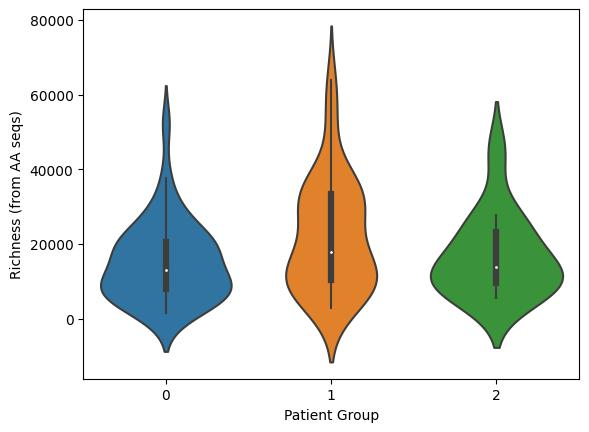
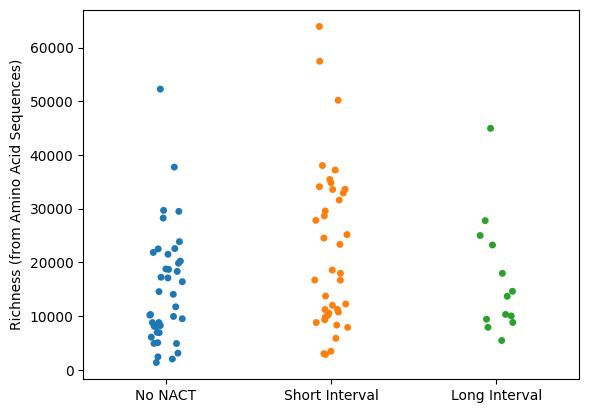
BeBetter figure style, small additions to README

diff --git a/main.py b/main.py
@@ -1,71 +1,75 @@
 import os
+import pandas as pd
 
 from src.data.parse_overview import parse_sample_overview
 from src.analysis.calc_diversity import quantify_patients
 from src.util.helpers import get_mean, shannon_idx, shannon_idx_vdj, \
        get_richness, get_richness_vdj
-from src.visualization.plotting import violin
+from src.visualization.plotting import violin, strip_plot
 
 def main():
-    load_precalculated = False
+    load_precalculated = True
     
+    saved_df_path = os.path.join('data', 'processed', 'precalculated.tsv')
     if not load_precalculated:
-       # Parse overview tsv file
+        # Parse overview tsv file
        samp_overview_path = './data/analysis/SampleOverview.tsv'
        ov_df = parse_sample_overview(samp_overview_path)
 
        # Calculate from patient sequencing data
        metric_fns_cols = [(shannon_idx, 'aminoAcid', 'aa_shannon'),
-                            (get_mean, 'cdr3Length', 'mean_cdr3'),
-                            (shannon_idx, 'vGeneName', 'shannon_vgene'),
-                            (shannon_idx, 'jGeneName', 'shannon_jgene'),
-                            (shannon_idx_vdj, 'vdjGenes', 'shannon_vdjgene'),
-                            (get_richness, 'aminoAcid', 'aa_richness'),
-                            (get_richness, 'vGeneName', 'richness_vgene'),
-                            (get_richness, 'jGeneName', 'richness_jgene'),
-                            (get_richness_vdj, 'vdjGenes', 'richness_vdjgene'),]
+                          (get_mean, 'cdr3Length', 'mean_cdr3'),
+                          (shannon_idx, 'vGeneName', 'shannon_vgene'),
+                          (shannon_idx, 'jGeneName', 'shannon_jgene'),
+                          (shannon_idx_vdj, 'vdjGenes', 'shannon_vdjgene'),
+                          (get_richness, 'aminoAcid', 'aa_richness'),
+                          (get_richness, 'vGeneName', 'richness_vgene'),
+                          (get_richness, 'jGeneName', 'richness_jgene'),
+                          (get_richness_vdj, 'vdjGenes', 'richness_vdjgene')]
        for metric_tup in metric_fns_cols:
               ov_df = quantify_patients(ov_df, 
                                    metric_tup[0], metric_tup[1], metric_tup[2])
-       ov_df.to_csv(os.path.join('data', 'processed', 'precalculated.tsv'), 
-                    sep="\t")
-    
-    ## Plotting
-    xlabel = 'Patient Group'
-    violin(ov_df, 'interval_group_num', 'fraction_productive', 
-           xlabel, 'Fraction Productive', 'fraction_productive_violin.jpg')
-    violin(ov_df, 'interval_group_num', 'rel_prod_rearr', 
-           xlabel, 'Relative Productive Rearrangements', 'rel_prod_rearr_violin.jpg')
-    violin(ov_df, 'interval_group_num', 'rel_total_rearr', 
-           xlabel, 'Relative Total Rearrangements', 'rel_total_rearr_violin.jpg')
-    violin(ov_df, 'interval_group_num', 'frac_prod_rearr', 
-           xlabel, 'Fraction of Productive Rearrangements', 'frac_prod_rearr_violin.jpg')
-    violin(ov_df, 'interval_group_num', 'productive_simpson_clonality', 
-           xlabel, 'Productive Simpson Clonality', 'prod_simps_clon_rearr_violin.jpg')
-    violin(ov_df, 'interval_group_num', 'max_productive_frequency', 
-           xlabel, 'Max Productive Frequency', 'max_prod_freq_violin.jpg')
-    
-    violin(ov_df, 'interval_group_num', 'aa_shannon', 
-           xlabel, 'Shannon Index (from AA seqs)', 'aa_shannon_violin.jpg')
-    violin(ov_df, 'interval_group_num', 'mean_cdr3', 
-           xlabel, 'Mean CDR3 Length', 'mean_cdr3_violin.jpg')
-    violin(ov_df, 'interval_group_num', 'shannon_vgene', 
-           xlabel, 'Shannon Index (TCR V-gene)', 'shannon_vgene_violin.jpg')
-    violin(ov_df, 'interval_group_num', 'shannon_jgene', 
-           xlabel, 'Shannon Index (TCR J-gene)', 'shannon_jgene_violin.jpg')
-    violin(ov_df, 'interval_group_num', 'shannon_vdjgene', 
-           xlabel, 'Shannon Index (from V, D, J seqs)', 'shannon_vdjgene_violin.jpg')
-    
-    violin(ov_df, 'interval_group_num', 'aa_richness', 
-           xlabel, 'Richness (from AA seqs)', 'rich_shannon_violin.jpg')
-    violin(ov_df, 'interval_group_num', 'richness_vgene', 
-           xlabel, 'Richness (TCR V-gene)', 'rich_vgene_violin.jpg')
-    violin(ov_df, 'interval_group_num', 'richness_jgene', 
-           xlabel, 'Richness (TCR J-gene)', 'rich_jgene_violin.jpg')
-    violin(ov_df, 'interval_group_num', 'richness_vdjgene', 
-           xlabel, 'Richness (from V, D, J seqs)', 'rich_vdjgene_violin.jpg')
-    
+       ov_df.to_csv(saved_df_path, sep="\t")
+    else:
+       ov_df = pd.read_csv(saved_df_path, sep="\t")
 
+    ## Plotting
+    xslice = 'group_label'
+    strip_plot(ov_df, xslice, 'fraction_productive', 
+           'Fraction Productive', 'fraction_productive_violin.jpg')
+    strip_plot(ov_df, xslice, 'rel_prod_rearr', 
+           'Relative Productive Rearrangements', 'rel_prod_rearr_violin.jpg')
+    strip_plot(ov_df, xslice, 'rel_total_rearr', 
+           'Relative Total Rearrangements', 'rel_total_rearr_violin.jpg')
+    strip_plot(ov_df, xslice, 'frac_prod_rearr', 
+           'Fraction of Productive Rearrangements', 'frac_prod_rearr_violin.jpg')
+    strip_plot(ov_df, xslice, 'productive_simpson_clonality', 
+           'Productive Simpson Clonality', 'prod_simps_clon_rearr_violin.jpg')
+    strip_plot(ov_df, xslice, 'max_productive_frequency', 
+           'Max Productive Frequency', 'max_prod_freq_violin.jpg')
+    
+    strip_plot(ov_df, xslice, 'aa_shannon', 
+           'Shannon Index (from Amino Acid Sequences)', 'aa_shannon_violin.jpg')
+    strip_plot(ov_df, xslice, 'mean_cdr3', 
+           'Mean CDR3 Length', 'mean_cdr3_violin.jpg')
+    strip_plot(ov_df, xslice, 'shannon_vgene', 
+           'Shannon Index (TCR V-gene)', 'shannon_vgene_violin.jpg')
+    strip_plot(ov_df, xslice, 'shannon_jgene', 
+           'Shannon Index (TCR J-gene)', 'shannon_jgene_violin.jpg')
+    strip_plot(ov_df, xslice, 'shannon_vdjgene', 
+           'Shannon Index (Unique V, D, J-gene Combinations)', 
+           'shannon_vdjgene_violin.jpg')
+    
+    strip_plot(ov_df, xslice, 'aa_richness', 
+           'Richness (from Amino Acid Sequences)', 'rich_shannon_violin.jpg')
+    strip_plot(ov_df, xslice, 'richness_vgene', 
+           'Richness (TCR V-gene)', 'rich_vgene_violin.jpg')
+    strip_plot(ov_df, xslice, 'richness_jgene', 
+           'Richness (TCR J-gene)', 'rich_jgene_violin.jpg')
+    strip_plot(ov_df, xslice, 'richness_vdjgene', 
+           'Richness (Unique V, D, J-gene Combinations)', 
+           'rich_vdjgene_violin.jpg')
+    
 
 if __name__ == "__main__":
     main()

diff --git a/src/analysis/calc_diversity.py b/src/analysis/calc_diversity.py
@@ -6,7 +6,7 @@ def quantify_patients(ov_df, metric_fn, metric_col, ov_new_col):
     print(f'{metric_col = }')
     new_col_arr = np.zeros(len(ov_df))
     for i, samp in enumerate(ov_df['sample_name']):
-        pt_path = os.path.join('data', 'patient_data', samp + '.tsv')
+        pt_path = os.path.join('data', 'raw', 'ChemoProjTCRs', samp + '.tsv')
         patient_df = pd.read_csv(pt_path, sep='\t', low_memory=False)
         new_col_arr[i] = metric_fn(patient_df, metric_col)
     ov_df[ov_new_col] = new_col_arr

diff --git a/src/visualization/plotting.py b/src/visualization/plotting.py
@@ -10,3 +10,14 @@ def violin(ov_df, xslice, yslice, xlabel, ylabel, filename, show=False):
     plt.savefig(os.path.join('fig', 'main_fig', filename), bbox_inches='tight')
     
     if show: plt.show()
+
+
+def strip_plot(ov_df, xslice, yslice, ylabel, filename, show=False):
+    plt.figure()
+    sns.stripplot(data=ov_df, x=xslice, y=yslice)
+    plt.xlabel('')
+    plt.ylabel(ylabel)
+
+    plt.savefig(os.path.join('fig', 'main_fig', filename), bbox_inches='tight')
+    
+    if show: plt.show()

diff --git a/README.md b/README.md
@@ -8,6 +8,16 @@ This repo was created by Dennis Gong and Thomas Usherwood as part of the Biologi
 
 The data was generated using the [immunoSEQ hsTCRB Kit](https://www.immunoseq.com/) with samples obtained by Høye et al., with an abstract published in Cancer Research, accessible [here](https://aacrjournals.org/cancerres/article/82/12_Supplement/1346/699749/Abstract-1346-T-cell-receptor-repertoire). The dataset contains 92 samples, with 35 patients receiving neoadjuvant chemotherapy (NACT) for short interval and 15 patients receiving long interval NACT. An additional 35 patients did not receive NACT. All repertoires are stored in Adaptive ImmunoSEQ format. 
 
+NOTE: The data files are large, so they are not included in the repository. When first cloning the repository, generate the required data folder structure using:
+$ mkdir data
+$ cd data/
+$ mkdir analysis
+$ mkdir processed
+$ mkdir raw
+$ cd ../../
+
+From the data listed above, populate ./data/raw/ with the sequencing files for each patient, and populate ./data/analysis with the sample overview file downloaded from ImmunoSeq.
+
 # Folder Structure
 
 ```
